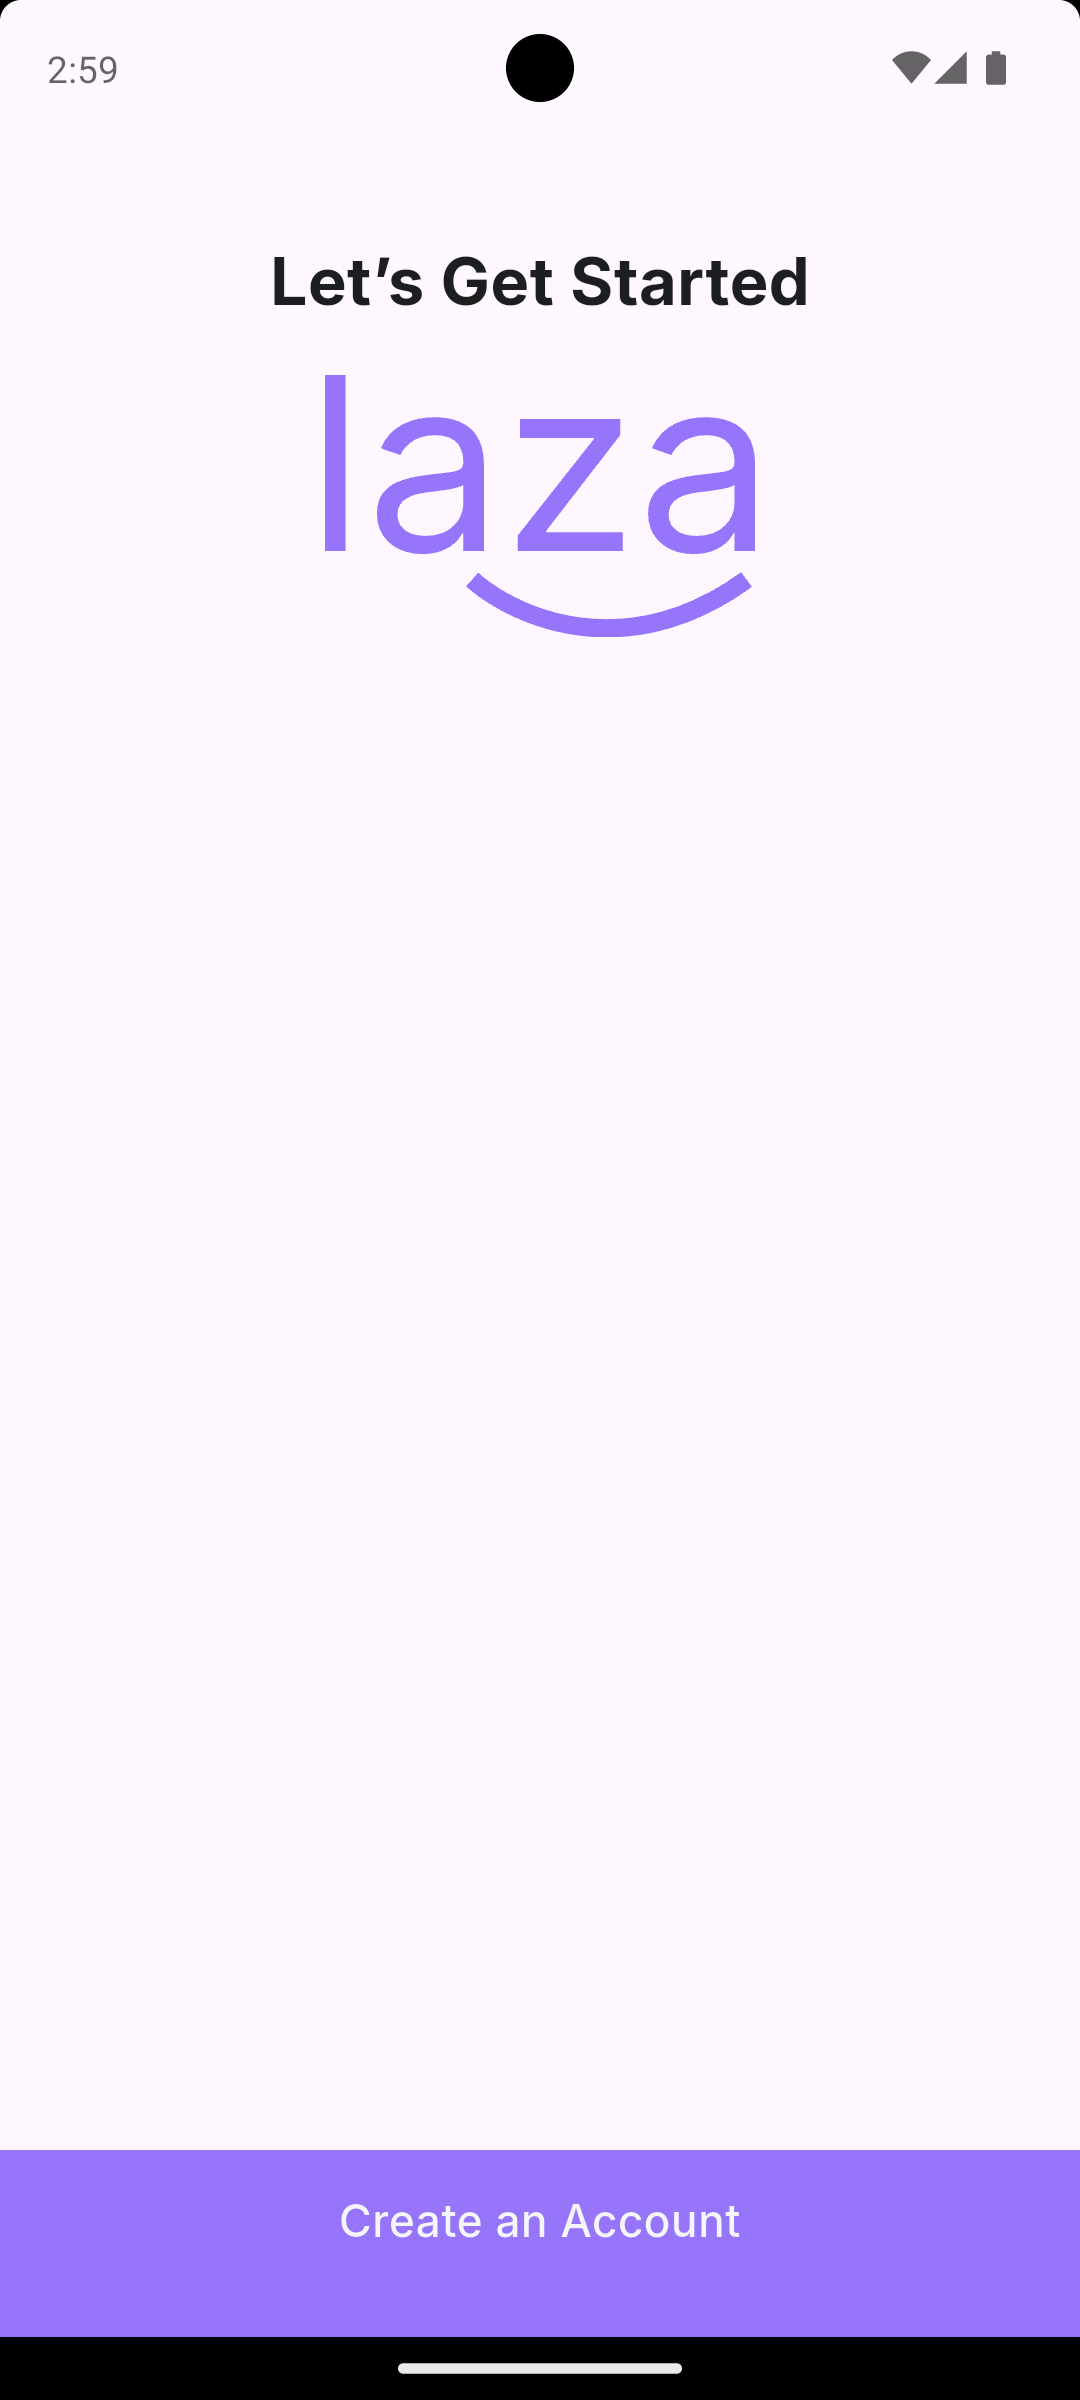
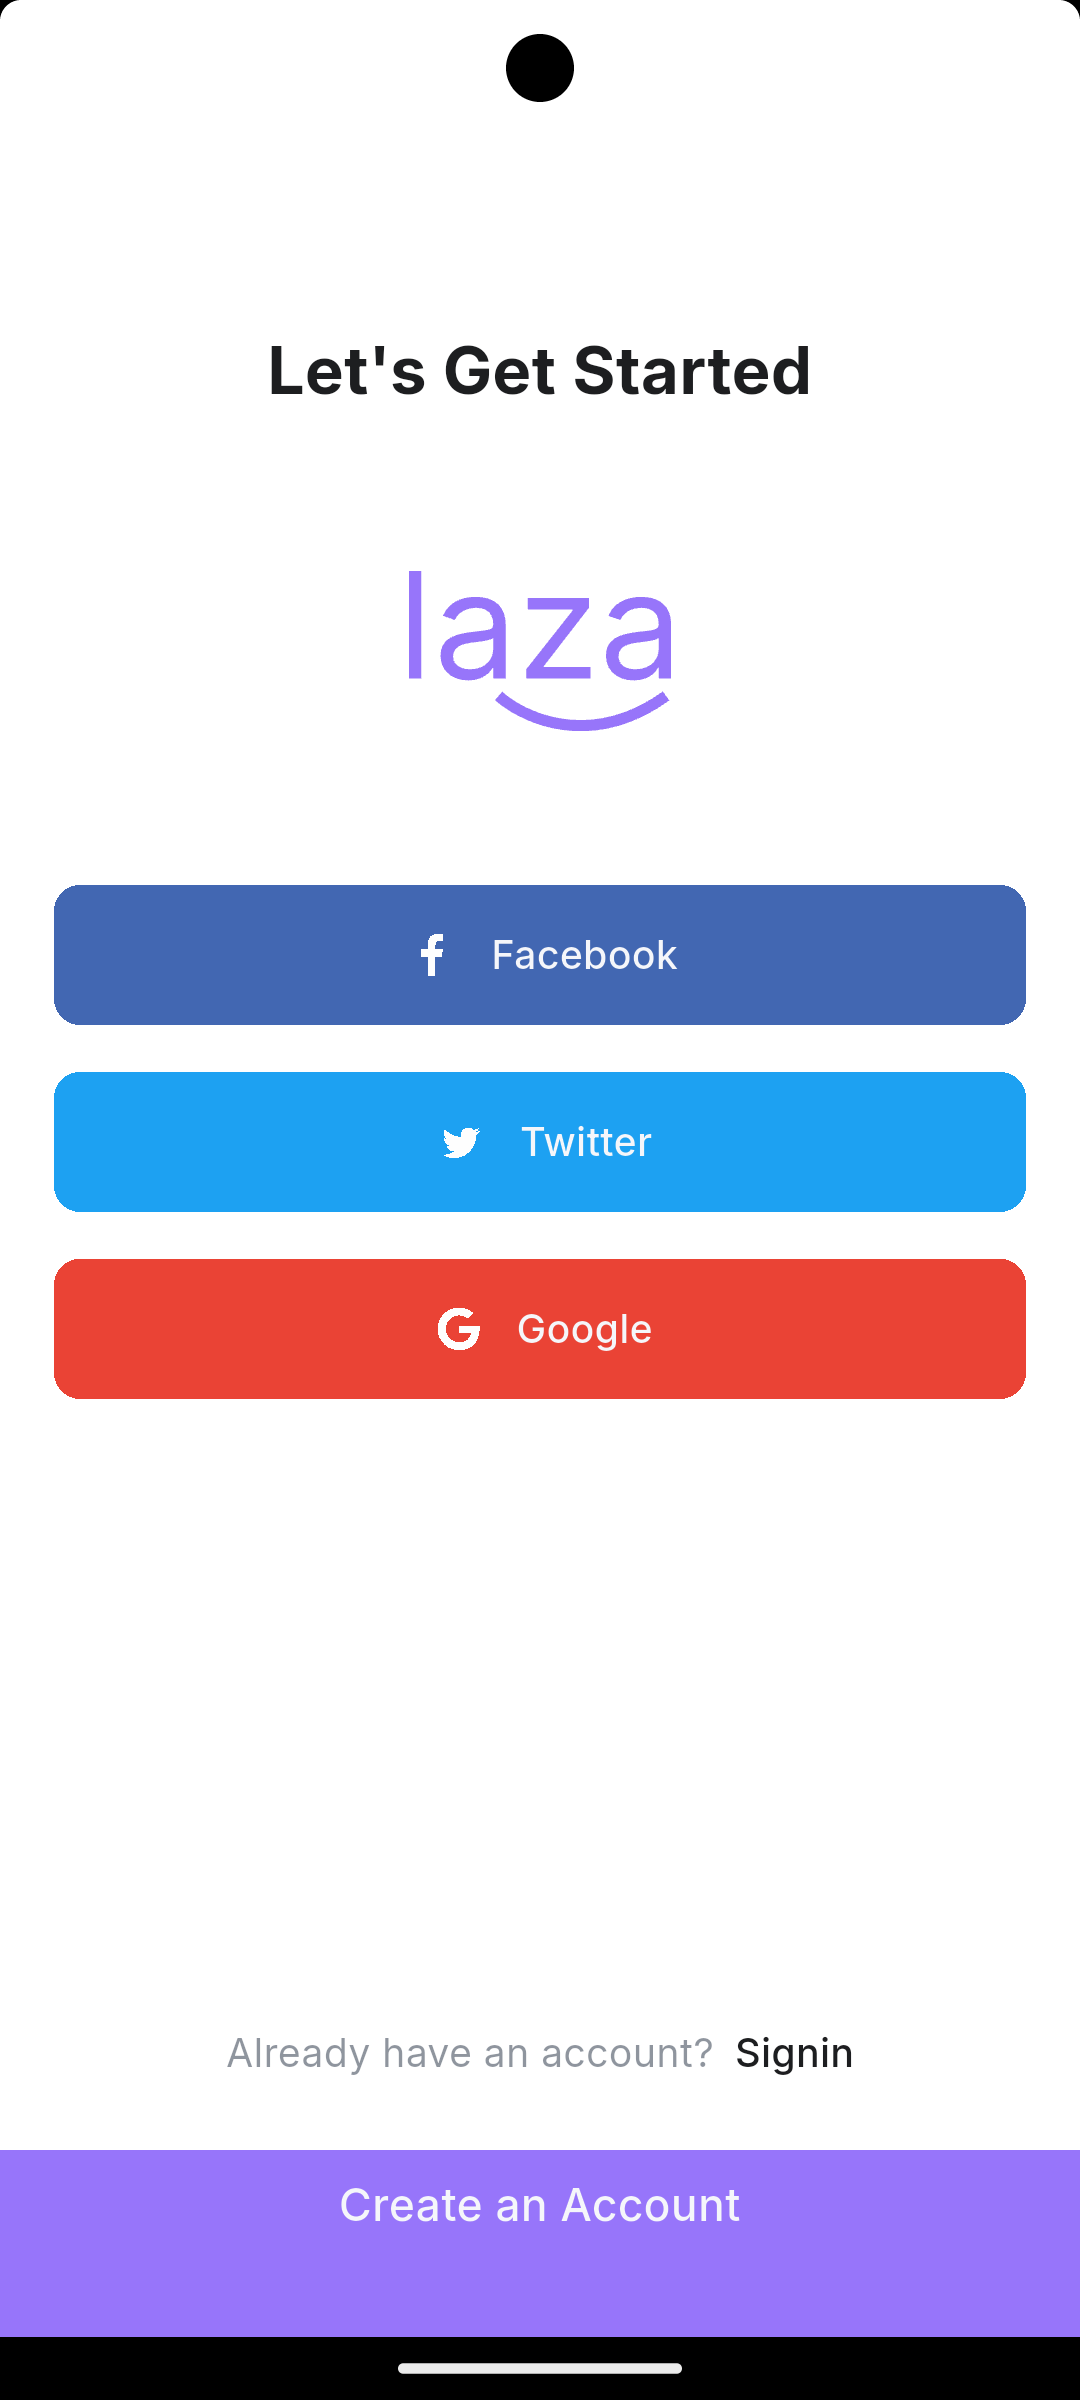
`Removed Android 12 splash screen assets and updated OTP verification UI to use Pinput widget`

diff --git a/lib/features/auth/presentation/pages/sections/verify_sections.dart b/lib/features/auth/presentation/pages/sections/verify_sections.dart
@@ -1,8 +1,10 @@
 import 'package:flutter/material.dart';
 import 'package:flutter_bloc/flutter_bloc.dart';
+import 'package:pinput/pinput.dart';
+import '../../../../../core/constents/app_colors.dart';
+import '../../../../../core/constents/assets.dart';
 import '../../cubit/auth_cubit.dart';
 import '../widgets/verify_header.dart';
-import '../widgets/verify_content.dart';
 import '../widgets/verify_bottom_section.dart';
 import 'register_error_handler.dart';
 
@@ -12,28 +14,35 @@ class VerifySections extends StatefulWidget {
   const VerifySections({super.key, this.email});
 
   @override
-  State<VerifySections> createState() => _VerifyViewState();
+  State<VerifySections> createState() => _VerifySectionsState();
 }
 
-class _VerifyViewState extends State<VerifySections> with AuthErrorHandler {
-   final TextEditingController pinController = TextEditingController();
+class _VerifySectionsState extends State<VerifySections> with AuthErrorHandler {
+  final TextEditingController pinController = TextEditingController();
+  final FocusNode focusNode = FocusNode();
+
+  @override
+  void dispose() {
+    pinController.dispose();
+    focusNode.dispose();
+    super.dispose();
+  }
+
   @override
   Widget build(BuildContext context) {
-    return Scaffold(
-      backgroundColor: Colors.white,
-      body: BlocListener<AuthCubit, AuthState>(
+    return  BlocListener<AuthCubit, AuthState>(
         listener: (context, state) {
           if (state is VerifyEmailError) {
             handleAuthError(
               state.failure,
-              (errors) {}, // No field errors for OTP
-              () {},      // No field errors to clear
+              (errors) {}, // No field-specific errors for OTP
+              () {}, // No need to clear field errors
               context,
             );
           } else if (state is VerifyEmailSuccess) {
             showSuccessMessage(context, state.response.message);
-            
-            // Navigate back to login after success
+
+            // Navigate back to login after a small delay
             Future.delayed(const Duration(seconds: 2), () {
               if (mounted) {
                 Navigator.of(context).pop();
@@ -41,23 +50,106 @@ class _VerifyViewState extends State<VerifySections> with AuthErrorHandler {
             });
           }
         },
-        child: SafeArea(
-          child: Column(
-            children: [
-              // Header Section
-              VerifyHeader(email: widget.email),
-              
-              // Content Section (Expandable)
-              Expanded(
-                child: VerifyContent(email: widget.email),
+        child: Column(
+          children: [
+            // Header Section
+            VerifyHeader(email: widget.email),
+        
+            // Content Section (Pinput inside the screen)
+            Expanded(
+              child: Padding(
+                padding: const EdgeInsets.symmetric(horizontal: 24.0),
+                child: Column(
+                  mainAxisAlignment: MainAxisAlignment.center,
+                  children: [
+                    // Illustration
+                    Image.asset(
+                      Assets.assetsObjectsLock,
+                      height: 200,
+                    ),
+                    const SizedBox(height: 40),
+        
+                    // PIN Input Field
+                    _buildPinput(context),
+        
+                    const SizedBox(height: 20),
+        
+                    // Instruction text
+                    Text(
+                      "Enter the 6-digit code sent to your email",
+                      style: TextStyle(fontSize: 14, color: Colors.grey[600]),
+                      textAlign: TextAlign.center,
+                    ),
+                  ],
+                ),
               ),
-              
-              // Bottom Section (Timer + Button)
-              VerifyBottomSection(email: widget.email ,pin: pinController.text ,),
-            ],
-          ),
+            ),
+        
+            // Bottom Section (Verify button)
+            VerifyBottomSection(
+              email: widget.email,
+              onVerify: () {
+                final pin = pinController.text.trim();
+                debugPrint('PIN to verify: $pin');
+                if (pin.length == 6) {
+                  context.read<AuthCubit>().verifyEmail(
+                        email: widget.email ?? '',
+                        otp: pin,
+                      );
+                } else {
+                  ScaffoldMessenger.of(context).showSnackBar(
+                    const SnackBar(
+                      content: Text('Please enter a valid 6-digit code'),
+                      duration: Duration(seconds: 2),
+                    ),
+                  );
+                }
+              },
+            ),
+          ],
+        ),
+      
+    );
+  }
+
+  /// Builds the PIN input widget
+  Widget _buildPinput(BuildContext context) {
+    final defaultPinTheme = PinTheme(
+      width: 50,
+      height: 70,
+      textStyle: const TextStyle(
+        fontSize: 20,
+        color: Colors.black,
+        fontWeight: FontWeight.w600,
+      ),
+      decoration: BoxDecoration(
+        border: Border.all(color: Colors.grey.shade400),
+        borderRadius: BorderRadius.circular(12),
+      ),
+    );
+
+    return Pinput(
+      length: 6,
+      controller: pinController,
+      focusNode: focusNode,
+      defaultPinTheme: defaultPinTheme,
+      focusedPinTheme: defaultPinTheme.copyDecorationWith(
+        border: Border.all(color: AppColor.primaryColor, width: 2),
+      ),
+      submittedPinTheme: defaultPinTheme.copyWith(
+        decoration: defaultPinTheme.decoration?.copyWith(
+          color: AppColor.gradientStart.withOpacity(0.1),
         ),
       ),
+      onCompleted: (pin) {
+        debugPrint('PIN entered: $pin');
+        ScaffoldMessenger.of(context).showSnackBar(
+          SnackBar(
+            content: Text('PIN entered: $pin'),
+            duration: const Duration(seconds: 1),
+          ),
+        );
+      },
     );
   }
 }

diff --git a/lib/features/auth/presentation/pages/widgets/verify_bottom_section.dart b/lib/features/auth/presentation/pages/widgets/verify_bottom_section.dart
@@ -9,9 +9,8 @@ import '../../cubit/auth_cubit.dart';
 
 class VerifyBottomSection extends StatefulWidget {
   final String? email;
-  final String? pin;
-
-  const VerifyBottomSection({super.key, this.email, this.pin});
+  final void Function()? onVerify;
+  const VerifyBottomSection({super.key, this.email, this.onVerify});
 
   @override
   State<VerifyBottomSection> createState() => _VerifyBottomSectionState();
@@ -139,7 +138,7 @@ class _VerifyBottomSectionState extends State<VerifyBottomSection> {
                 text: "Confirm Code",
                 onPressed: state is VerifyEmailLoading
                     ? null
-                    : _onVerifyPressed,
+                    : widget.onVerify,
                 isLoading: state is VerifyEmailLoading,
                 borderRadius: 16,
               );
@@ -149,12 +148,6 @@ class _VerifyBottomSectionState extends State<VerifyBottomSection> {
       ),
     );
   }
-  void _onVerifyPressed() {
-    // Verify with backend
-    final pin = widget.pin ;
-    print('PIN to verify: $pin');
-    context.read<AuthCubit>().verifyEmail(email: widget.email ?? '', otp: pin!);
-    
-  }
+ 
   }
 

diff --git a/lib/features/auth/presentation/pages/widgets/verify_header.dart b/lib/features/auth/presentation/pages/widgets/verify_header.dart
@@ -1,4 +1,5 @@
 import 'package:flutter/material.dart';
+import 'package:go_router/go_router.dart';
 import '../../../../../core/routing/app_navigation.dart';
 import '../../../../../shared/widgets/text_widget.dart';
 
@@ -16,21 +17,7 @@ class VerifyHeader extends StatelessWidget {
           // Back Button and Title Row
           Row(
             children: [
-              GestureDetector(
-                onTap: () => AppNavigation.animatedPop(context),
-                child: Container(
-                  padding: const EdgeInsets.all(8.0),
-                  decoration: BoxDecoration(
-                    color: Colors.grey[100],
-                    shape: BoxShape.circle,
-                  ),
-                  child: const Icon(
-                    Icons.arrow_back_ios,
-                    color: Colors.black54,
-                    size: 18,
-                  ),
-                ),
-              ),
+              
               const Expanded(
                 child: Center(
                   child: CustomTextWidget(

diff --git a/lib/features/auth/presentation/pages/widgets/verify_content.dart b/lib/features/auth/presentation/pages/widgets/verify_content.dart
@@ -26,8 +26,8 @@ class _VerifyContentState extends State<VerifyContent> {
   @override
   Widget build(BuildContext context) {
     final defaultPinTheme = PinTheme(
-      width: 56,
-      height: 60,
+      width: 50,
+      height: 70,
       textStyle: const TextStyle(
         fontSize: 20,
         color: Colors.black,
@@ -66,7 +66,6 @@ class _VerifyContentState extends State<VerifyContent> {
               ),
             ),
             onCompleted: (pin) {
-              // Store the PIN for access from parent
               _onPinCompleted(pin);
             },
           ),
@@ -86,6 +85,7 @@ class _VerifyContentState extends State<VerifyContent> {
   
   void _onPinCompleted(String pin) {
     // You can add validation or other logic here
+    debugPrint('PIN entered: $pin');
     ScaffoldMessenger.of(context).showSnackBar(
       SnackBar(
         content: Text('PIN entered: $pin'),

diff --git a/lib/features/auth/presentation/pages/login_register_view.dart b/lib/features/auth/presentation/pages/login_register_view.dart
@@ -27,7 +27,7 @@ class LoginRegisterView extends StatelessWidget {
                   children: [
                     SizedBox(height: screenHeight * 0.08),
 
-                    // Title
+                    
                     CustomTextWidget.title24(
                       "Let's Get Started",
                       textAlign: TextAlign.center,
@@ -35,10 +35,14 @@ class LoginRegisterView extends StatelessWidget {
                     ),
 
 
-                 
+                     SvgHandler.logo(
+              assetPath: Assets.assetsIconsLogosvg,
+              height: screenHeight * 0.2,
+              
+              color: AppColor.primaryColor,  
+            ),
 
-                    SizedBox(height: screenHeight * 0.2),
-
+                  
                     // facebook button
                     Container(
                       width: double.infinity,

diff --git a/lib/features/auth/presentation/pages/verify_page.dart b/lib/features/auth/presentation/pages/verify_page.dart
@@ -1,6 +1,7 @@
 import 'package:ecommerce_app/features/auth/presentation/pages/sections/verify_sections.dart';
 import 'package:flutter/material.dart';
 import 'package:flutter_bloc/flutter_bloc.dart';
+import 'package:go_router/go_router.dart';
 import '../../../../core/di/dependency_injection.dart';
 import '../cubit/auth_cubit.dart';
 
@@ -13,7 +14,17 @@ class VerifyView extends StatelessWidget {
   Widget build(BuildContext context) {
     return BlocProvider<AuthCubit>(
       create: (context) => getIt<AuthCubit>(),
-      child: VerifySections(email: email),
+      child: Scaffold(
+        appBar: AppBar(
+          leading: IconButton(
+            icon: const Icon(Icons.arrow_back, color: Colors.black),
+            onPressed: () {
+              
+            },
+          ),
+
+        ),
+        body: VerifySections(email: email)),
     );
   }
 }

diff --git a/lib/features/splash/splash_view.dart b/lib/features/splash/splash_view.dart
@@ -43,9 +43,9 @@ class _SplashViewState extends State<SplashView>
      final hasSeenOnboarding =  getIt<SharedPreferences>().getBool(SharedKeys.isOnboardingCompleted) ?? false;
      
     final destination =
-        hasSeenOnboarding ?  AppRoutes.onboarding : (getIt<SharedPreferences>().getBool(SharedKeys.isLogin) ?? false) ? AppRoutes.home : AppRoutes.mainauth;
+        hasSeenOnboarding == false  ?  AppRoutes.onboarding : (getIt<SharedPreferences>().getBool(SharedKeys.isLogin) ?? false) ? AppRoutes.home : AppRoutes.mainauth;
       
-        AppNavigation.animatedGo(context, destination);
+        context.go(destination);
     if (mounted) context.go(destination);
   }
 

diff --git a/lib/features/auth/presentation/pages/sections/register_form.dart b/lib/features/auth/presentation/pages/sections/register_form.dart
@@ -52,7 +52,7 @@ class _RegisterFormState extends State<RegisterForm> with AuthErrorHandler {
           );
         } else if (state is RegisterSuccess) {
           
-            context.go(AppRoutes.verify, extra: _emailController.text);
+            context.push(AppRoutes.verify, extra: _emailController.text);
           ScaffoldMessenger.of(context).showSnackBar(
             SnackBar(
               content: Text(state.response.message),

diff --git a/lib/core/routing/app_router.dart b/lib/core/routing/app_router.dart
@@ -63,7 +63,7 @@ class AppRouter {
       GoRoute(
         path: AppRoutes.register,
         name: "register",
-        pageBuilder: (context, state) => AppPageTransitions.slideFromBottom(
+        pageBuilder: (context, state) => AppPageTransitions.slideAndFade(
           context,
           state,
           const RegisterPage(),

diff --git a/lib/features/auth/presentation/cubit/auth_cubit.dart b/lib/features/auth/presentation/cubit/auth_cubit.dart
@@ -72,7 +72,8 @@ class AuthCubit extends Cubit<AuthState> {
       email: email.trim(),
       otp: otp.trim(),
     );
-
+   
+   print('Verifying email: $email with OTP: $otp');
     final Either<Failure, VerifyEmailResponse> result = await verifyEmailUseCase(request);
 
     result.fold(
